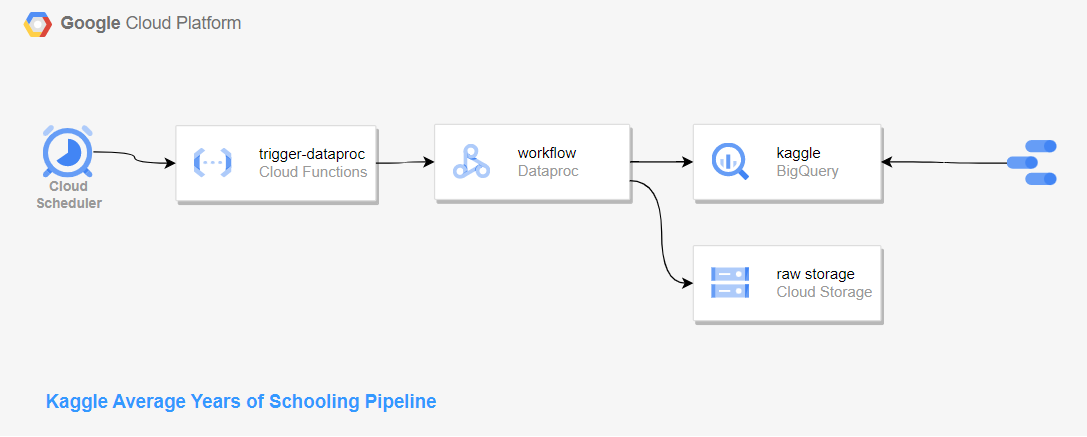
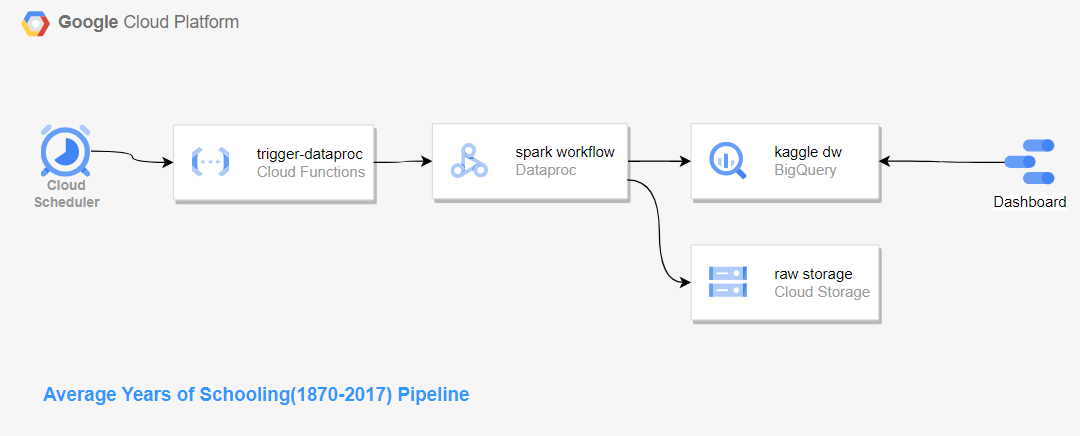
docs

diff --git a/README.md b/README.md
@@ -1,25 +1,27 @@
 # Data Engineer Zoomcamp Final Project
 
-This project is a data engineering pipeline with data about education from Kaggle dataset.
+This project is a data engineering pipeline with data about education around the world in more than 100 years of history from Kaggle dataset. 
+
+Education is widely accepted to be a fundamental resource, both for individuals and societies. Indeed, in most countries basic education is nowadays perceived not only as a right, but also as a duty – governments are typically expected to ensure access to basic education, while citizens are often required by law to attain education up to a certain basic level.
+
+The data on the production of education shows that schooling tends to be largely financed with public resources across the globe, although a great deal of heterogeneity is observed between countries and world regions.
 
 ## Dataset
 
-The [dataset](https://www.kaggle.com/datasets/fredericksalazar/average-years-of-schooling-since-1870-2017) contains information about the average years of schooling sonce 1870 to 2017 in countries around the world.
+The [kaggle dataset](https://www.kaggle.com/datasets/fredericksalazar/average-years-of-schooling-since-1870-2017) contains information about the average years of schooling since 1870 to 2017 in countries around the world. The source of kaggle dataset DataSet is downloaded from https://ourworldindata.org/global-education.
 
 ### Pipeline
 
 ![pipeline](./docs/pipeline.png)
 
-### Report
+The pipeline starts with a cloud scheduler cron witch trigger a cloud function.
 
-Selecting a year from the filter.
+Inside the cloud function there is a logic to call a dataproc workflow that processes a ETL over data collected from kaggle dataset. The ETL process stores raw data(csv) in the cloud storage and ingest the csv file into BigQuery.
+
+A dashboard was created with the data stored in BigQuery.
+
+### Dashboard
+
+In the dashboard we are able to filter by year and average year of schooling. We can also filter by country selecting countries on the map.
 
 ![report-1](./docs/report-1.png)
-
-Selecting multiple years from the filter and some countries from the graph.
-
-![report-2](./docs/report-2.png)
-
-# Achive steps
-
-https://github.com/DataTalksClub/data-engineering-zoomcamp/blob/main/week_7_project/README.md
